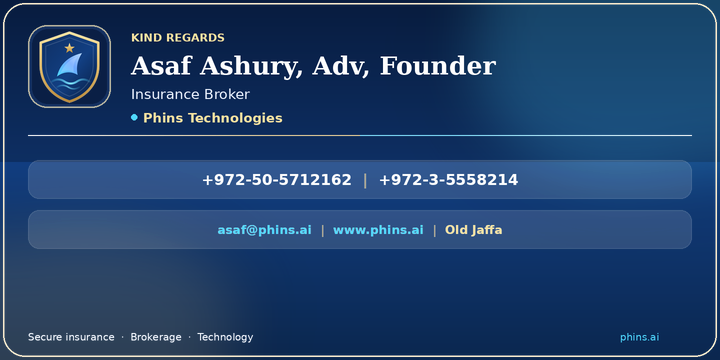
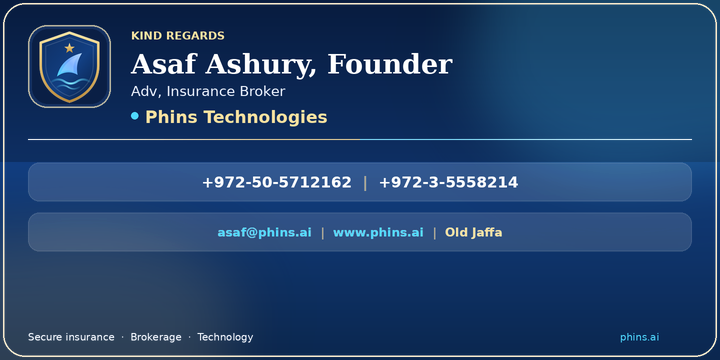
Move Adv beside Insurance Broker; enlarge Phins Technologies.
Name is Asaf Ashury, Founder; role line is Adv, Insurance Broker.

diff --git a/artifacts/email-signature/Asaf-Ashury-PHINS-Email-Signature-Cover.html b/artifacts/email-signature/Asaf-Ashury-PHINS-Email-Signature-Cover.html
@@ -62,15 +62,15 @@
   }
   .name {
     font-family: "Cormorant Garamond", Georgia, serif;
-    font-size: clamp(1.4rem, 2.4vw, 1.85rem); font-weight: 700; margin: 0; line-height: 1.15; color: #fff;
+    font-size: clamp(1.55rem, 2.6vw, 2rem); font-weight: 700; margin: 0; line-height: 1.15; color: #fff;
   }
   .role { margin: 6px 0 0; font-size: 0.98rem; color: rgba(234, 241, 255, 0.82); }
   .company {
-    margin: 10px 0 0; display: inline-flex; align-items: center; gap: 8px;
-    font-weight: 700; letter-spacing: 0.04em; color: var(--gold-light); font-size: 0.95rem;
+    margin: 12px 0 0; display: inline-flex; align-items: center; gap: 10px;
+    font-weight: 700; letter-spacing: 0.04em; color: var(--gold-light); font-size: 1.2rem;
   }
   .company .dot {
-    width: 6px; height: 6px; border-radius: 50%; background: var(--cyan); box-shadow: 0 0 10px rgba(79,216,255,0.8);
+    width: 8px; height: 8px; border-radius: 50%; background: var(--cyan); box-shadow: 0 0 10px rgba(79,216,255,0.8);
   }
   .divider {
     height: 1px; margin: 22px 0 16px;
@@ -110,7 +110,7 @@
   <div class="page">
     <div class="intro">
       <h1>PHINS Email Signature Cover</h1>
-      <p>Asaf Ashury · Adv, Founder · Insurance Broker · Phins Technologies</p>
+      <p>Asaf Ashury, Founder · Adv, Insurance Broker · Phins Technologies</p>
     </div>
     <div class="actions">
       <button class="btn btn-primary" id="downloadPng" type="button">Download PNG Cover</button>
@@ -127,8 +127,8 @@
           </div>
           <div>
             <p class="kind">Kind Regards</p>
-            <h2 class="name">Asaf Ashury, Adv, Founder</h2>
-            <p class="role">Insurance Broker</p>
+            <h2 class="name">Asaf Ashury, Founder</h2>
+            <p class="role">Adv, Insurance Broker</p>
             <p class="company"><span class="dot"></span> Phins Technologies</p>
           </div>
         </div>
@@ -166,9 +166,9 @@
                   </td>
                   <td style="vertical-align:middle;">
                     <div style="font-size:11px;letter-spacing:2px;text-transform:uppercase;color:#f7e2a0;font-weight:700;">Kind Regards</div>
-                    <div style="font-size:21px;line-height:1.2;color:#ffffff;font-weight:700;margin-top:4px;">Asaf Ashury, Adv, Founder</div>
-                    <div style="font-size:14px;color:#d7e4ff;margin-top:3px;">Insurance Broker</div>
-                    <div style="font-size:13px;color:#e3bf6f;font-weight:700;margin-top:6px;">Phins Technologies</div>
+                    <div style="font-size:22px;line-height:1.2;color:#ffffff;font-weight:700;margin-top:4px;">Asaf Ashury, Founder</div>
+                    <div style="font-size:14px;color:#d7e4ff;margin-top:3px;">Adv, Insurance Broker</div>
+                    <div style="font-size:17px;color:#e3bf6f;font-weight:700;margin-top:7px;">Phins Technologies</div>
                   </td>
                 </tr>
               </table>

diff --git a/artifacts/email-signature/Asaf-Ashury-PHINS-Email-Signature-PasteReady.html b/artifacts/email-signature/Asaf-Ashury-PHINS-Email-Signature-PasteReady.html
@@ -17,9 +17,9 @@
           </td>
           <td style="vertical-align:middle;">
             <div style="font-size:11px;letter-spacing:2px;text-transform:uppercase;color:#f7e2a0;font-weight:700;">Kind Regards</div>
-            <div style="font-size:21px;line-height:1.2;color:#ffffff;font-weight:700;margin-top:4px;">Asaf Ashury, Adv, Founder</div>
-            <div style="font-size:14px;color:#d7e4ff;margin-top:3px;">Insurance Broker</div>
-            <div style="font-size:13px;color:#e3bf6f;font-weight:700;margin-top:6px;">Phins Technologies</div>
+            <div style="font-size:22px;line-height:1.2;color:#ffffff;font-weight:700;margin-top:4px;">Asaf Ashury, Founder</div>
+            <div style="font-size:14px;color:#d7e4ff;margin-top:3px;">Adv, Insurance Broker</div>
+            <div style="font-size:17px;color:#e3bf6f;font-weight:700;margin-top:7px;">Phins Technologies</div>
           </td>
         </tr>
       </table>
